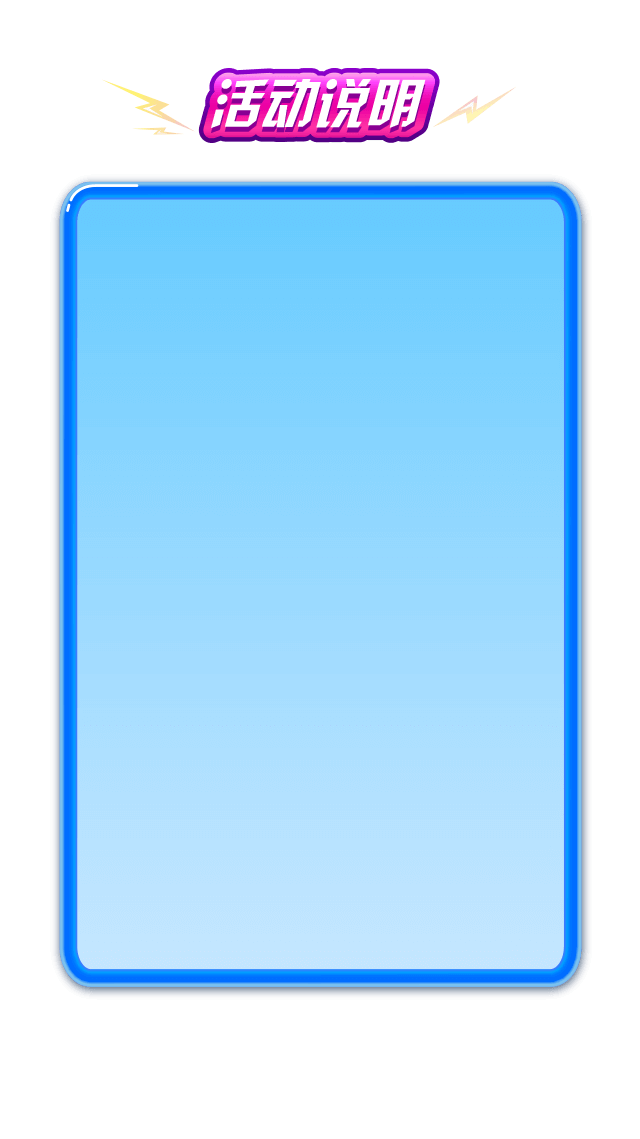
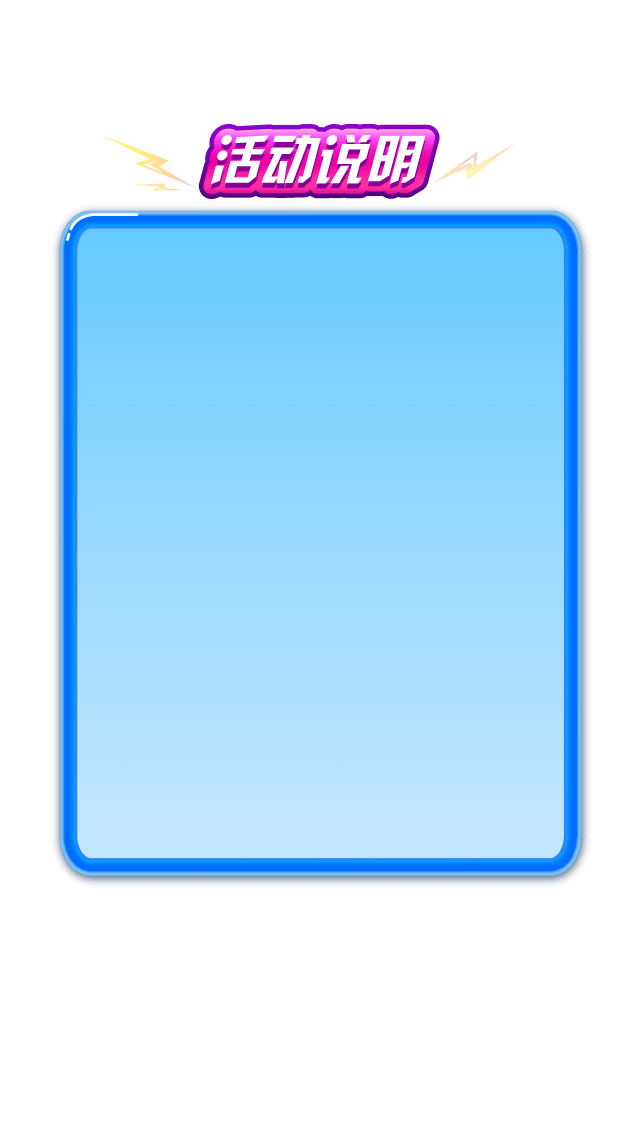
test update

Changed region(s): [[0.0625, 0.7375, 0.9375, 0.8911], [0.0625, 0.0615, 0.9375, 0.2151]]

diff --git a/public/assets/css/common.css b/public/assets/css/common.css
@@ -47,15 +47,15 @@ select,input,textarea{font-family:inherit; outline:none; padding:0;}
 
 /*rule*/
 .pageRule{ background:url(../images/ruleBg.png) 0 0 no-repeat;}
-.ruleBlock{ width:465px; height:740px; left:89px; top:209px;}
+.ruleBlock{ width:465px; height:600px; left:89px; top:240px;}
 #scrollbar{ width:465px;}
-#scrollbar .viewport{ height:740px; overflow:hidden; position:relative; width:448px;}
+#scrollbar .viewport{ height:600px; overflow:hidden; position:relative; width:448px;}
 #scrollbar .overview{ left:0; list-style:none outside none; margin:0; padding:0; position:absolute; top:0;}
 #scrollbar .scrollbar{ background:none; float:right; position:relative; width:15px; background:none;}
 #scrollbar .track{ background:#810093; height:100%; position:relative; width:2px;}
 #scrollbar .thumb{ background:url(../images/scrollHand.png) 0 0 no-repeat; cursor: pointer; left:-6px; position:absolute; top:0; width:15px;}
 #scrollbar .end{ background:url(../images/scrollEnd.png) center bottom no-repeat; width:15px; height:17px; position:absolute; left:0; bottom:-5px;}
-.btn5{ top:1020px; left:50%; margin-left:-110px;}
+.btn5{ top:910px; left:50%; margin-left:-110px;}
 
 /*page2*/
 .earth{ background:url(../images/earth.png) 0 0 no-repeat; width:2172px; height:2264px; left:-741px; top:520px; -webkit-transform-origin:1061px 1145px;}
@@ -151,8 +151,8 @@ select,input,textarea{font-family:inherit; outline:none; padding:0;}
 .awardList{ width:518px;}
 .awardInit{ width:259px; height:200px; float:left;}
 .awdImg{ left:0; top:0;}
-.awdTime{ font-size:14px; color:#d10f88; font-style:italic; left:80px; top:158px;}
-.awdCode{ font-size:20px; color:#d10f88; font-style:italic; left:80px; top:180px;}
+.awdTime{ font-size:14px; color:#d10f88; font-style:italic; left:80px; top:156px;}
+.awdCode{ font-size:20px; color:#d10f88; font-style:italic; left:80px; top:170px;}
 .btn13{ left:92px; top:466px;}
 .btn14{ left:389px; top:485px;}
 .infoTxtB{ width:258px; height:34px; line-height:34px; padding:0 15px; color:#333; font-size:18px; position:absolute; left:205px; background:none; border:none;}
@@ -165,3 +165,7 @@ select,input,textarea{font-family:inherit; outline:none; padding:0;}
 .awdImgBlock{ position:absolute; left:0; top:0; width:238px; height:160px;}
 
 .shareNote{ left:50%; top:0; margin-left:-320px; position:fixed;}
+
+.pageCode{ background:url(../images/codeBg.png) 0 0 no-repeat;}
+.codeClose{ top:208px; right:50px;}
+.snCode{ padding:0; width:556px; height:80px; line-height:80px; text-align:center; font-size:60px; color:#dd18ba; left:43px; top:286px;}

diff --git a/public/assets/js/common.js b/public/assets/js/common.js
@@ -116,8 +116,11 @@ function submitSnid(url) {
                         //ajax验证成功
                         goPage2b();
                     } else {
-                        alert(json.msg);
-                        canSubmitSnid = true; //解锁
+						//测试
+						goPage2b();
+						
+                        /*alert(json.msg);
+                        canSubmitSnid = true; //解锁*/
                     }
                 },
                 error: function() {
@@ -305,7 +308,6 @@ function endGame(url) {
         gameType = 1;
     }
 
-    //window.scroll(0, 0);
     $.ajax(url, {
         type: 'post',
         dataType: 'json',
@@ -313,6 +315,7 @@ function endGame(url) {
             _token: $('input[name="_token"]').val()
         },
         success: function(json) {
+			window.scroll(0, 0);
             $('.page2').fadeOut(500);
             if (json && json.ret == 0 && json.prize != 12) {
                 $('.page3b').fadeIn(500); //1-11、13 等奖
@@ -478,4 +481,15 @@ function showShareNote(){
 	
 function closeShareNote(){
 	$('.shareNote').fadeOut(500);
+	}
+	
+function showCode(e){
+	var sncode=$(e).siblings('.awdCode').html();
+	$('.snCode').html(sncode);
+	$('.pageCode').fadeIn(500);
+	}
+	
+function closeCode(){
+	$('.snCode').html('');
+	$('.pageCode').fadeOut(500);
 	}

diff --git a/resources/views/index.blade.php b/resources/views/index.blade.php
@@ -151,9 +151,9 @@
 @if ($lottery->has_lottery == 1)
 <div class="awardInit">
 	<div class="innerDiv">
-    	<div class="awdImgBlock" style="background:url({{asset('assets/images/awd'.$lottery->prize.'.png')}}) 0 0 no-repeat;"></div>
-		<span class="abs awdTime">中奖时间：{{date('Y-m-d', strtotime($lottery->lottery_time))}}</span>
-		<span class="abs awdCode"></span>
+    	<span class="abs awdTime">中奖时间：{{date('Y-m-d', strtotime($lottery->lottery_time))}}</span>
+		<a href="javascript:void(0);" onclick="showCode(this);" class="abs awdImg"><img src="{{asset('assets/images/awd'.$lottery->prize.'.png')}}"></a>
+		<span class="abs awdCode">SN1234567890</span>
 	</div>
 </div>
 @endif
@@ -194,6 +194,13 @@
                 	<a href="javascript:void(0);" class="abs awardRuleCloseBtn" onClick="closeAwardRule();"><img src="{{asset('assets/images/closeBtn.png')}}"></a>
                 </div>
             </div>
+        </div>
+    </div>
+    
+    <div class="page pageCode" style="display:none;">
+    	<div class="innerDiv">
+            <p class="snCode abs"></p>
+            <a href="javascript:void(0);" onclick="closeCode();" class="abs codeClose"><img src="{{asset('assets/images/closeBtn.png')}}"></a>
         </div>
     </div>
 
